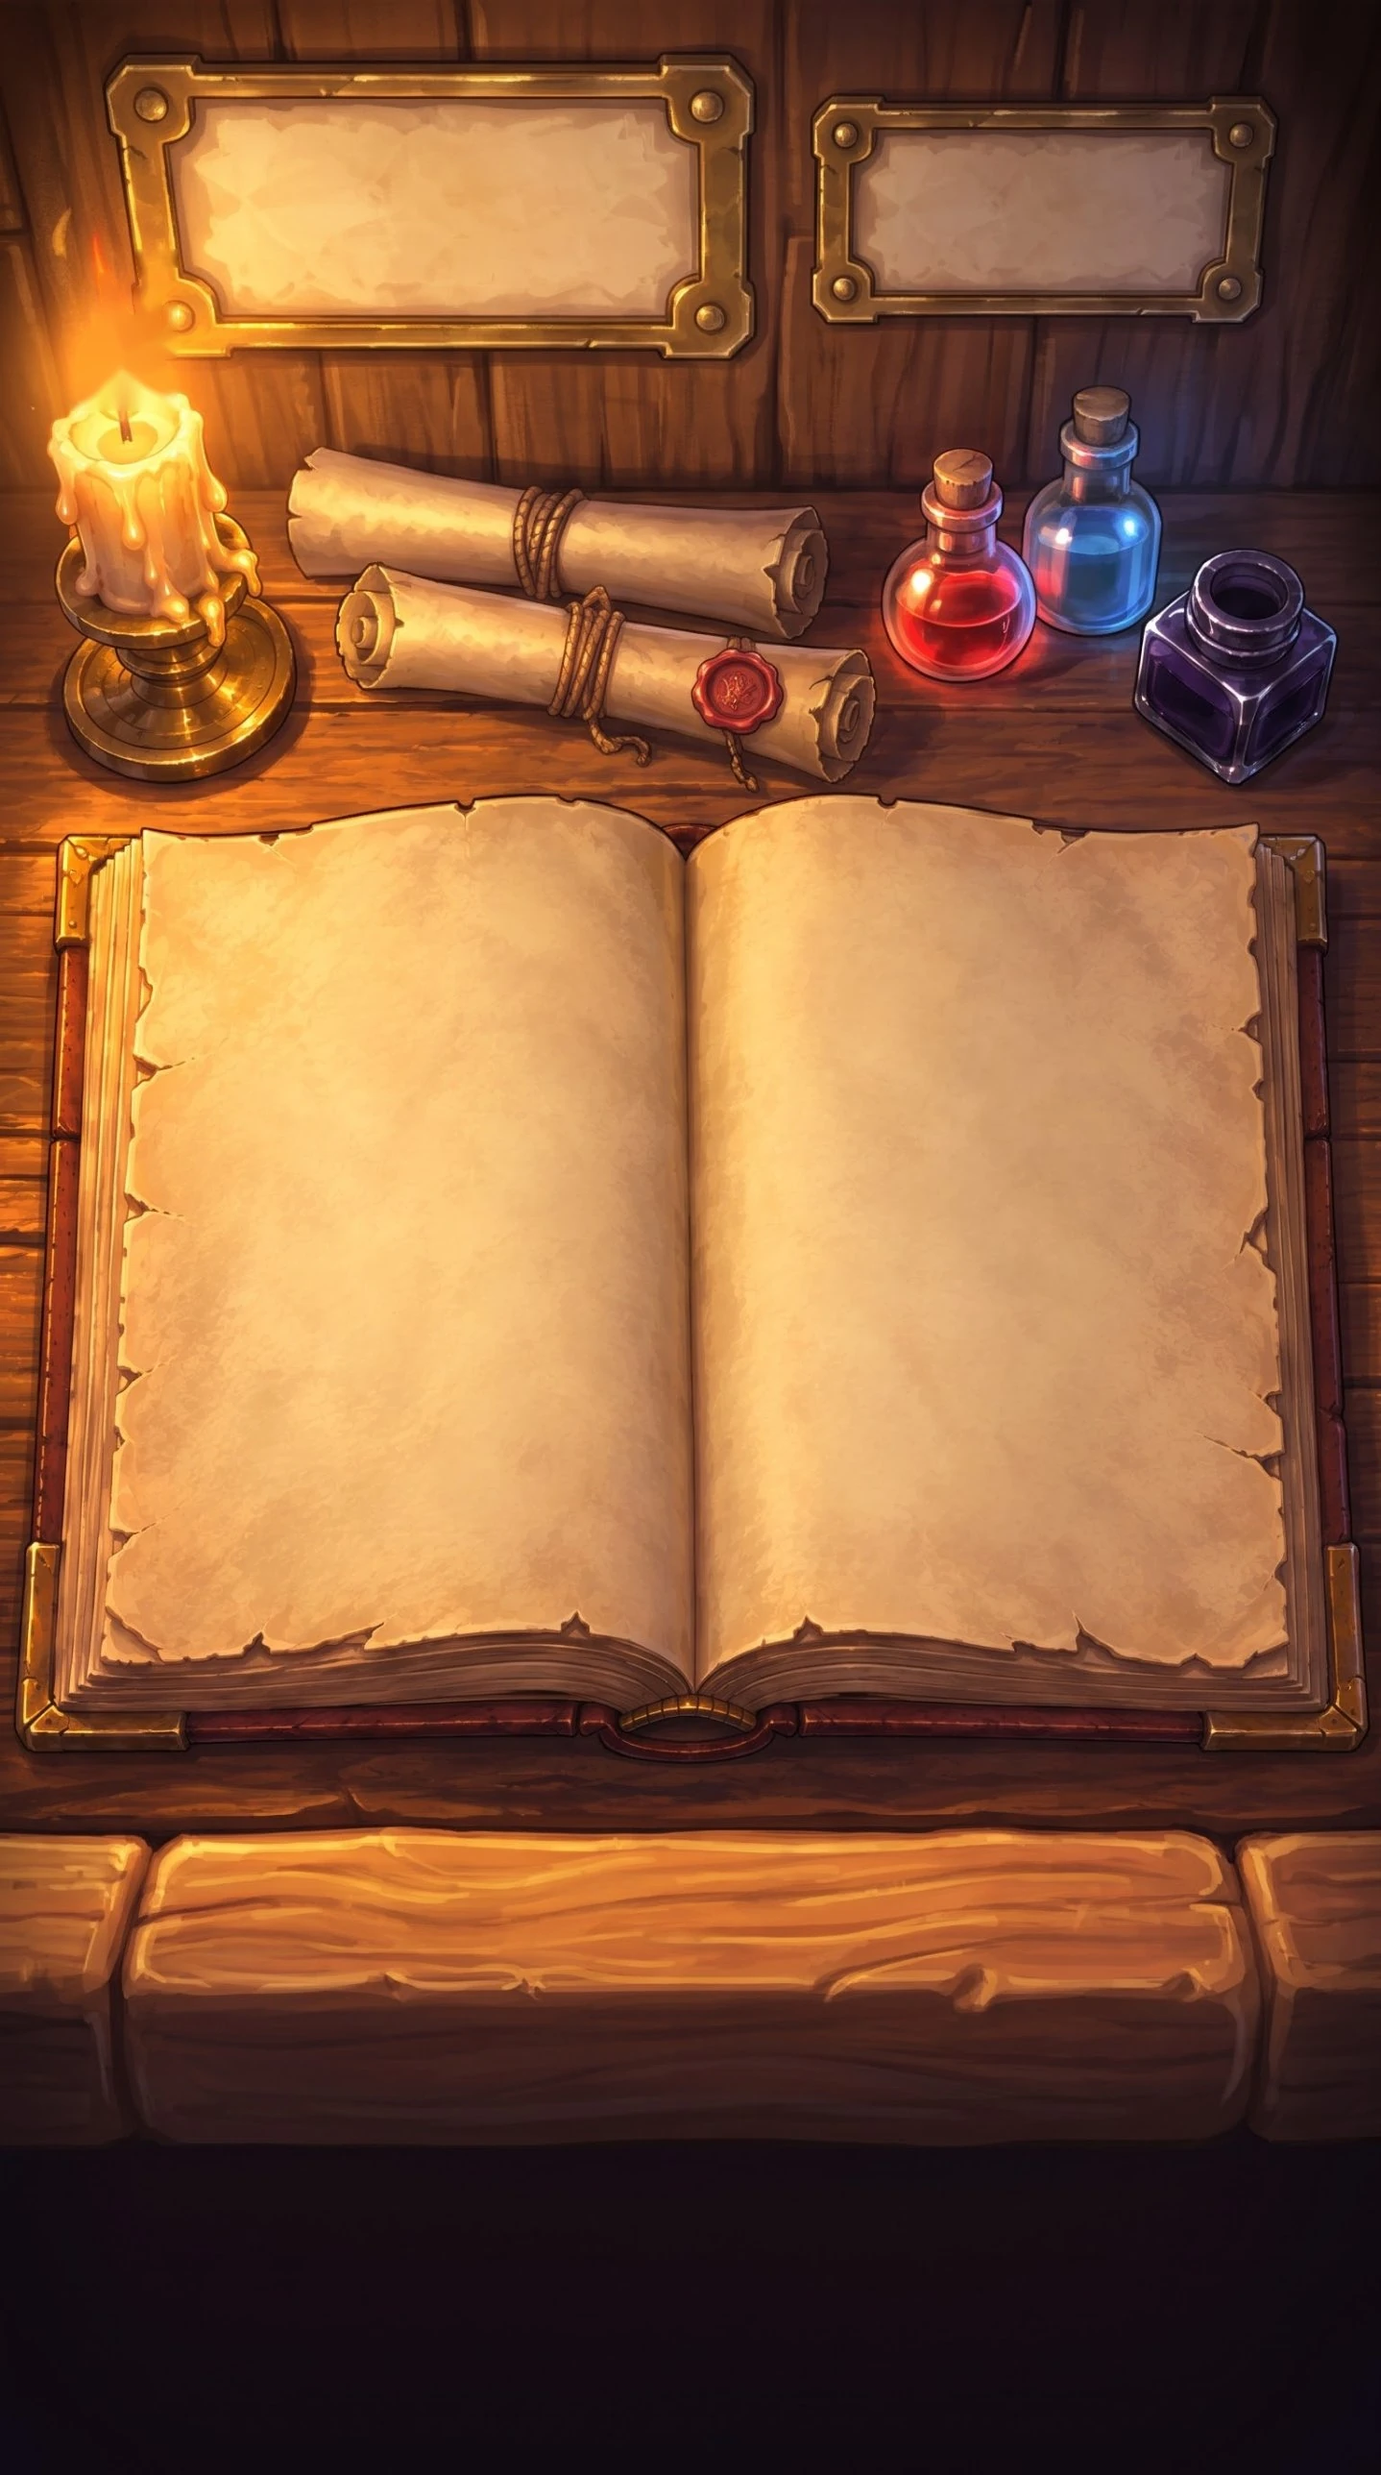
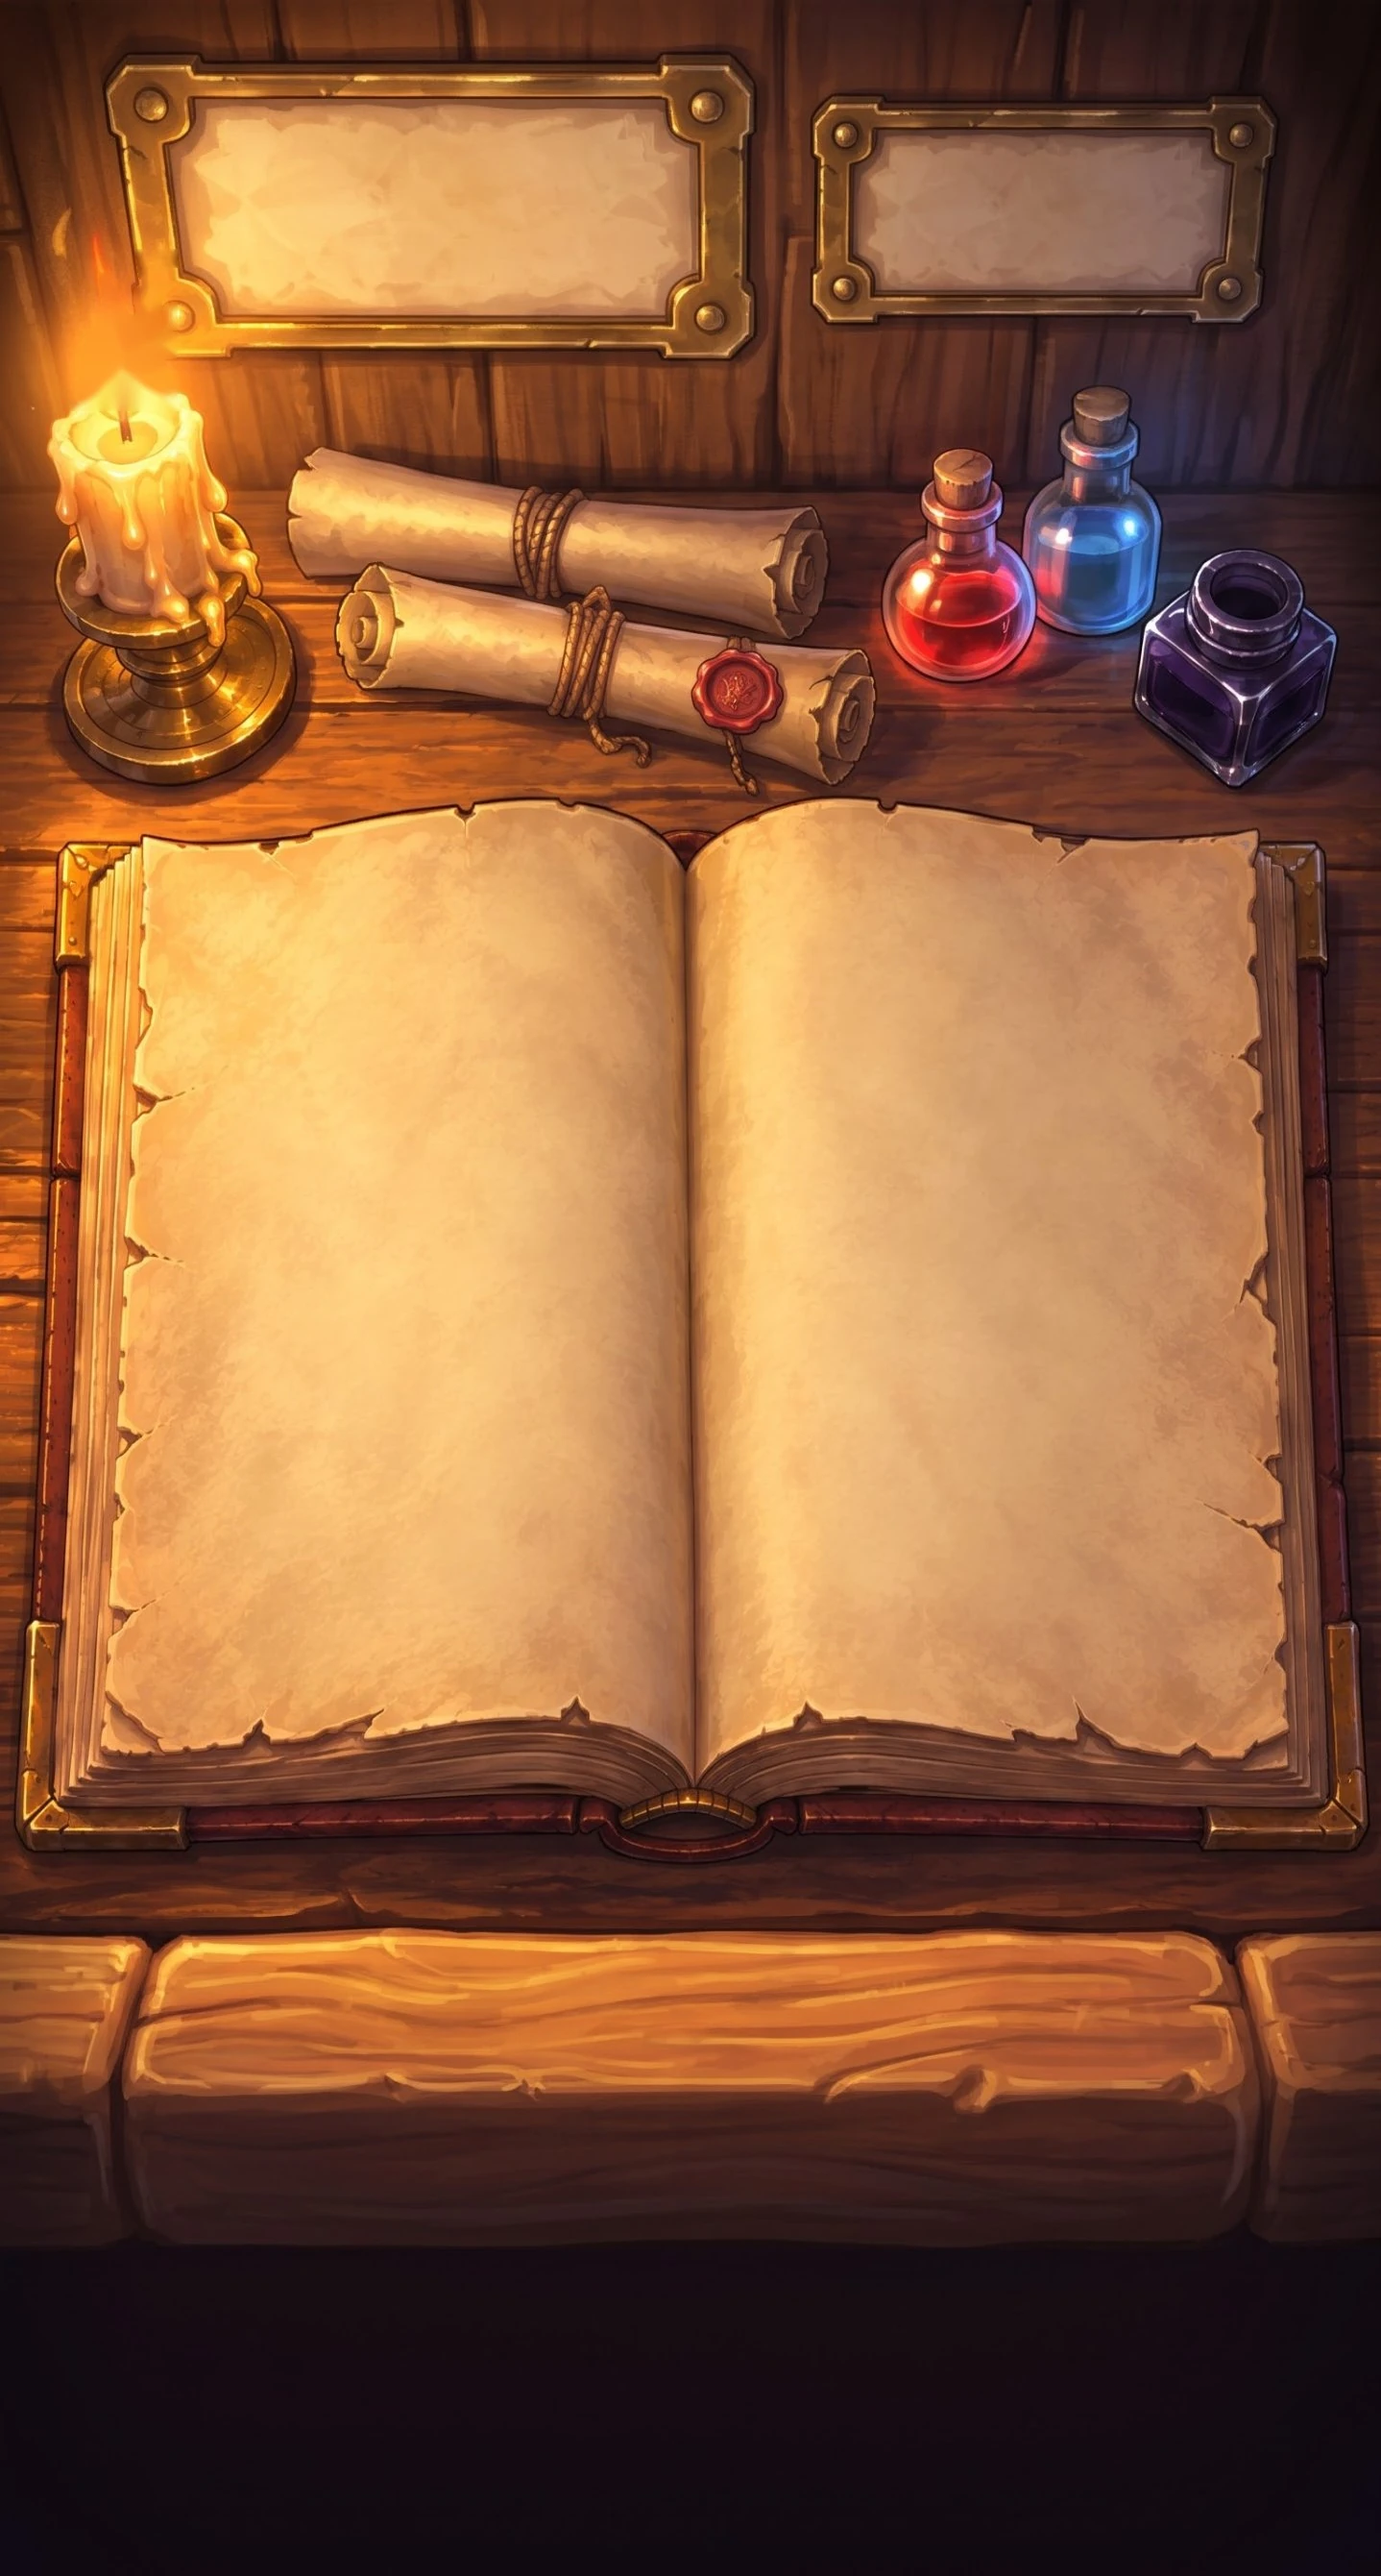
Taller book (16 lines), printed tilted plaque text with grain, candle light on gift plaque, realistic candle flame
Claude-Session: https://claude.ai/code/session_01RrGCNeavX6aqauv28uFeHb

Changed region(s): [[0.0, 0.0, 1.0, 0.8385], [0.9791, 0.4037, 1.0, 0.4658], [0.0, 0.0932, 0.0306, 0.1242]]

diff --git a/index.html b/index.html
@@ -16,13 +16,21 @@ html,body{height:100%;background:#0a0604;overflow:hidden;font-family:Lora,Georgi
 
 
 /* таблички: одна картинка рамки, внутри чистый пергамент */
-.plaque{position:absolute;z-index:10;color:#3a2412;padding:6px 10px}
-.list{display:flex;flex-direction:column;justify-content:center;height:100%;gap:2px}
-.list .m{font:12px/1.3 Lora,Georgia,serif;text-shadow:0 0 1px rgba(70,35,8,.35);white-space:nowrap;overflow:hidden;text-overflow:ellipsis;animation:pop .35s ease-out}
-.list .m b{color:#7a2e12;font-weight:600}
-@keyframes pop{from{opacity:0;transform:translateY(6px)}to{opacity:1;transform:none}}
-#giftsPlaque.flash{animation:flash .9s ease-out}
-@keyframes flash{0%{filter:drop-shadow(0 0 0 rgba(255,200,90,0))}30%{filter:drop-shadow(0 0 8px rgba(255,200,90,.95))}100%{filter:drop-shadow(0 0 0 rgba(255,200,90,0))}}
+/* таблички висят на стене: текст отпечатан в пергаменте (умножение + зерно), с наклоном стены */
+.plaque{position:absolute;z-index:10;color:#2a1506;mix-blend-mode:multiply;transform-origin:50% 100%}
+#chatPlaque{left:78px;top:45px;width:186px;height:74px;transform:perspective(320px) rotateX(11deg) rotate(.9deg)}
+#giftsPlaque{left:343px;top:56px;width:128px;height:54px;transform:perspective(320px) rotateX(11deg)}
+.list{display:flex;flex-direction:column;justify-content:center;height:100%;gap:1px;
+  -webkit-mask-image:var(--grain);mask-image:var(--grain);-webkit-mask-size:90px;mask-size:90px}
+.list .m{font:12.5px/1.32 Lora,Georgia,serif;letter-spacing:.1px;text-shadow:0 0 .7px rgba(60,25,5,.55);white-space:nowrap;overflow:hidden;text-overflow:ellipsis;animation:ink 1.1s ease-out}
+#gifts .m{font-size:12px}
+.list .m b{color:#62200b;font-weight:600}
+@keyframes ink{from{opacity:0;filter:blur(2.5px)}to{opacity:1;filter:none}}
+/* отсвет свечи на дальней табличке, вспыхивает при подарке */
+#giftLight{position:absolute;left:322px;top:40px;width:170px;height:88px;z-index:9;pointer-events:none;mix-blend-mode:screen;
+  background:radial-gradient(ellipse at 45% 55%,rgba(255,196,120,.42),rgba(255,170,90,.18) 55%,transparent 72%);opacity:calc(.8 + .2*var(--f))}
+#giftLight.flash{animation:gflash 1.2s ease-out}
+@keyframes gflash{0%{filter:brightness(1)}25%{filter:brightness(2.6)}100%{filter:brightness(1)}}
 
 #bookwrap{position:absolute;z-index:6}
 .bookimg{position:absolute;left:0;top:0;width:100%;height:100%;display:block}
@@ -43,7 +51,7 @@ html,body{height:100%;background:#0a0604;overflow:hidden;font-family:Lora,Georgi
 #glow{position:absolute;left:-162px;top:-80px;width:420px;height:420px;pointer-events:none;mix-blend-mode:screen;
   background:radial-gradient(circle,rgba(255,170,70,.55),rgba(255,140,40,.18) 40%,transparent 65%);
   opacity:calc(.5 + .5*var(--f))}
-#flamecv{position:absolute;left:18px;top:42px;width:60px;height:120px;pointer-events:none}
+#flamecv{position:absolute;left:18px;top:46px;width:60px;height:120px;pointer-events:none}
 #quill{position:absolute;left:468px;top:121px;width:64px;height:110px;z-index:9;transform-origin:6px 107px;transform:rotate(-6deg);
   clip-path:inset(0 0 9px 0);filter:drop-shadow(5px 6px 4px rgba(20,8,0,.5))}
 
@@ -88,8 +96,9 @@ body.clean #ctl{display:none}
 <div id="stage">
   <img id="scene" src="assets/scene.webp" alt="">
 
-  <div class="plaque" id="chatPlaque" style="left:71px;top:39px;width:192px;height:81px"><div class="list" id="chat"></div></div>
-  <div class="plaque" id="giftsPlaque" style="left:338px;top:54px;width:143px;height:59px"><div class="list" id="gifts"></div></div>
+  <div id="giftLight"></div>
+  <div class="plaque" id="chatPlaque"><div class="list" id="chat"></div></div>
+  <div class="plaque" id="giftsPlaque"><div class="list" id="gifts"></div></div>
 
   <div id="bookwrap">
     <div class="stk" id="stkL"></div>
@@ -133,10 +142,10 @@ body.clean #ctl{display:none}
 (function(){
 /* ---------- геометрия ---------- */
 var Q=1438/540;                            /* пикселей картины сцены на единицу сцены */
-var BX=0, BY=290, BW=540, BH=420;
-var PW=196, PH=300, X0L=60, X0R=284, Y0=50;
-var LX0=718/Q, LY0=815/Q-BY, LW=610/Q, LHT=960/Q; /* лист = нарисованная страница, вырезанная из картины */
-var TW=184, TLL=6, TLR=6, TT=6, LH=19.5, PERP=13;
+var BX=0, BY=290, BW=540, BH=460;
+var PW=200, PH=345, X0L=58, X0R=281, Y0=40;
+var LX0=718/Q, LY0=817/Q-BY, LW=610/Q, LHT=1057/Q; /* лист = нарисованная страница, вырезанная из картины */
+var TW=192, TLL=4, TLR=4, TT=4, LH=19.5, PERP=16;
 var READ=0.13;
 var Z=2, RCL=56, HCX=73, HCY=70;
 var ARMX=640, ARMY=1130;
@@ -162,6 +171,10 @@ bookwrap.style.cssText+='left:'+BX+'px;top:'+BY+'px;width:'+BW+'px;height:'+BH+'
 pL.style.left=(LX0-LW)+'px'; pL.style.top=LY0+'px'; pR.style.left=LX0+'px'; pR.style.top=LY0+'px';
 
 
+/* зерно бумаги для табличек: чернила ложатся неравномерно */
+(function(){var c=document.createElement('canvas'); c.width=c.height=90; var g=c.getContext('2d'), d=g.createImageData(90,90);
+  for(var i=0;i<8100;i++){d.data[i*4+3]=Math.random()<.24?255-Math.random()*190:255} g.putImageData(d,0,0);
+  stage.style.setProperty('--grain','url('+c.toDataURL()+')')})();
 function fit(){stage.style.transform='scale('+Math.min(innerWidth/540,innerHeight/960)+')'}
 addEventListener('resize',fit); fit();
 
@@ -591,39 +604,56 @@ function tick(now){
 
 /* ---------- огонь свечи: живое пламя из слоёв, без повторов; свет на столе дышит вместе с ним ---------- */
 var FLAME=(function(){
-  var c=document.getElementById('flamecv'), g=c.getContext('2d'), W=60, H=120, R=2;
+  var c=document.getElementById('flamecv'), g=c.getContext('2d'), W=60, H=120, R=3;
   c.width=W*R; c.height=H*R; g.scale(R,R);
-  var P=[0,1,2,3,4,5].map(function(){return rnd(0,100)});
+  var P=[0,1,2,3,4,5,6].map(function(){return rnd(0,100)});
   function nz(t,i){return Math.sin(t*1.13+P[i])*.5+Math.sin(t*2.71+P[i]*1.7)*.3+Math.sin(t*5.3+P[i]*2.3)*.2}
-  var gust=0, gv=0, bx=30, by=112;
-  function body(h,w,tx,lean){
-    g.beginPath(); g.moveTo(bx-w*.15,by+1);
-    g.bezierCurveTo(bx-w*1.05,by-h*.12, bx-w*.8+lean*.4,by-h*.55, bx+tx,by-h);
-    g.bezierCurveTo(bx+w*.8+lean*.4,by-h*.55, bx+w*1.05,by-h*.12, bx+w*.15,by+1);
+  var gust=0, gv=0, bx=30, by=114;
+  /* капля пламени: широкая у основания, острый кончик; кончик качается сильнее основания */
+  function drop(cy,h,w,tx){
+    g.beginPath(); g.moveTo(bx,cy+w*.35);
+    g.bezierCurveTo(bx-w*1.1,cy+w*.3, bx-w*1.05,cy-h*.38, bx+tx*.35-w*.3,cy-h*.66);
+    g.quadraticCurveTo(bx+tx*.8,cy-h*.9, bx+tx,cy-h);
+    g.quadraticCurveTo(bx+tx*.8+w*.12,cy-h*.86, bx+tx*.35+w*.3,cy-h*.66);
+    g.bezierCurveTo(bx+w*1.05,cy-h*.38, bx+w*1.1,cy+w*.3, bx,cy+w*.35);
     g.closePath();
   }
   return function(now){
     var t=now/1000;
-    if(Math.random()<.004) gv=rnd(.6,1.2)*(Math.random()<.5?-1:1);
-    gust+=(gv-gust)*.06; gv*=.97;
-    var h=58*(1+.07*nz(t*1.6,0)+.04*nz(t*7,1))*(1-.12*Math.abs(gust)), w=9.6*(1+.05*nz(t*2.2,2));
-    var lean=5*nz(t*.8,3)+2.2*nz(t*3.4,4)+9*gust, tx=lean*1.2+1.5*nz(t*9,5);
+    if(Math.random()<.003) gv=rnd(.5,1.1)*(Math.random()<.5?-1:1);
+    gust+=(gv-gust)*.05; gv*=.975;
+    var flick=.06*nz(t*1.4,0)+.035*nz(t*6.5,1)+(Math.random()<.02?rnd(-.04,.05):0);
+    var h=60*(1+flick)*(1-.15*Math.abs(gust)), w=7.2*(1+.04*nz(t*2,2)+.5*Math.abs(gust)*.2);
+    var tx=3.2*nz(t*.7,3)+1.4*nz(t*3.1,4)+11*gust+.6*nz(t*11,5);
     g.clearRect(0,0,W,H);
+    /* мягкий ореол */
     g.globalCompositeOperation='lighter';
-    var hl=g.createRadialGradient(bx+lean*.3,by-h*.45,2,bx+lean*.3,by-h*.45,34);
-    hl.addColorStop(0,'rgba(255,170,70,.32)'); hl.addColorStop(1,'rgba(255,120,30,0)');
+    var hl=g.createRadialGradient(bx+tx*.25,by-h*.42,3,bx+tx*.25,by-h*.42,30);
+    hl.addColorStop(0,'rgba(255,175,80,.30)'); hl.addColorStop(.5,'rgba(255,140,50,.10)'); hl.addColorStop(1,'rgba(255,120,30,0)');
     g.fillStyle=hl; g.fillRect(0,0,W,H);
-    var go=g.createLinearGradient(0,by,0,by-h);
-    go.addColorStop(0,'rgba(255,110,30,.55)'); go.addColorStop(.25,'rgba(255,140,40,.9)'); go.addColorStop(.7,'rgba(255,100,20,.55)'); go.addColorStop(1,'rgba(220,60,10,0)');
-    g.shadowColor='rgba(255,140,40,.8)'; g.shadowBlur=10; g.fillStyle=go; body(h,w,tx,lean); g.fill(); g.shadowBlur=0;
-    var gi=g.createLinearGradient(0,by,0,by-h*.72);
-    gi.addColorStop(0,'rgba(255,250,225,.95)'); gi.addColorStop(.45,'rgba(255,226,140,.9)'); gi.addColorStop(1,'rgba(255,190,80,0)');
-    g.fillStyle=gi; body(h*.72,w*.55,tx*.6,lean*.6); g.fill();
     g.globalCompositeOperation='source-over';
-    var bl=g.createRadialGradient(bx,by-2,0,bx,by-2,6); bl.addColorStop(0,'rgba(90,120,255,.55)'); bl.addColorStop(1,'rgba(90,120,255,0)');
-    g.fillStyle=bl; g.beginPath(); g.ellipse(bx,by-2,5,4,0,0,7); g.fill();
-        g.fillStyle='rgba(255,90,30,.9)'; g.beginPath(); g.arc(bx+lean*.08,by-4,1.1,0,7); g.fill();
-    return Math.max(0,Math.min(1,(h/58-.82)/.3));
+    /* внешний оранжевый край, размытый */
+    g.filter='blur(1.6px)';
+    var go=g.createLinearGradient(0,by+3,0,by-h);
+    go.addColorStop(0,'rgba(255,120,40,0)'); go.addColorStop(.12,'rgba(255,140,45,.75)'); go.addColorStop(.55,'rgba(255,150,50,.9)');
+    go.addColorStop(.85,'rgba(240,95,25,.55)'); go.addColorStop(1,'rgba(200,60,15,0)');
+    g.fillStyle=go; drop(by,h,w,tx); g.fill();
+    /* яркое тело */
+    g.filter='blur(.8px)';
+    var gi=g.createLinearGradient(0,by-4,0,by-h*.82);
+    gi.addColorStop(0,'rgba(255,236,170,0)'); gi.addColorStop(.18,'rgba(255,248,215,.95)'); gi.addColorStop(.6,'rgba(255,232,150,.95)'); gi.addColorStop(1,'rgba(255,200,90,0)');
+    g.fillStyle=gi; drop(by-5,h*.8,w*.68,tx*.8); g.fill();
+    /* тёмная зона и голубизна у основания вокруг фитиля */
+    g.filter='blur(1.2px)';
+    var gb=g.createRadialGradient(bx,by-2,0,bx,by-3,w*.95);
+    gb.addColorStop(0,'rgba(70,80,170,.55)'); gb.addColorStop(.6,'rgba(110,110,200,.25)'); gb.addColorStop(1,'rgba(120,120,220,0)');
+    g.fillStyle=gb; g.beginPath(); g.ellipse(bx,by-3,w*.85,w*1.25,0,0,7); g.fill();
+    g.filter='none';
+    /* фитиль: тёмный, чуть изогнут, тлеющий кончик */
+    g.strokeStyle='rgba(25,12,5,.9)'; g.lineWidth=1.5; g.lineCap='round';
+    g.beginPath(); g.moveTo(bx,by+8); g.quadraticCurveTo(bx+.3,by+1,bx+1.6+tx*.05,by-7); g.stroke();
+    g.fillStyle='rgba(255,110,40,.85)'; g.beginPath(); g.arc(bx+1.6+tx*.05,by-7,.9,0,7); g.fill();
+    return Math.max(0,Math.min(1,(h/60-.86)/.26));
   };
 })();
 var fl=1, flT=0;
@@ -655,7 +685,7 @@ function addChat(name,text){
 }
 function addGift(name,gift){
   addTo(gifts,function(d){var b=document.createElement('b'); b.textContent=String(name).slice(0,20); d.appendChild(b); d.appendChild(document.createTextNode(' · '+String(gift).slice(0,24)))});
-  giftsPlaque.classList.remove('flash'); void giftsPlaque.offsetWidth; giftsPlaque.classList.add('flash');
+  var gl2=document.getElementById('giftLight'); gl2.classList.remove('flash'); void gl2.offsetWidth; gl2.classList.add('flash');
 }
 
 var STORY=[
